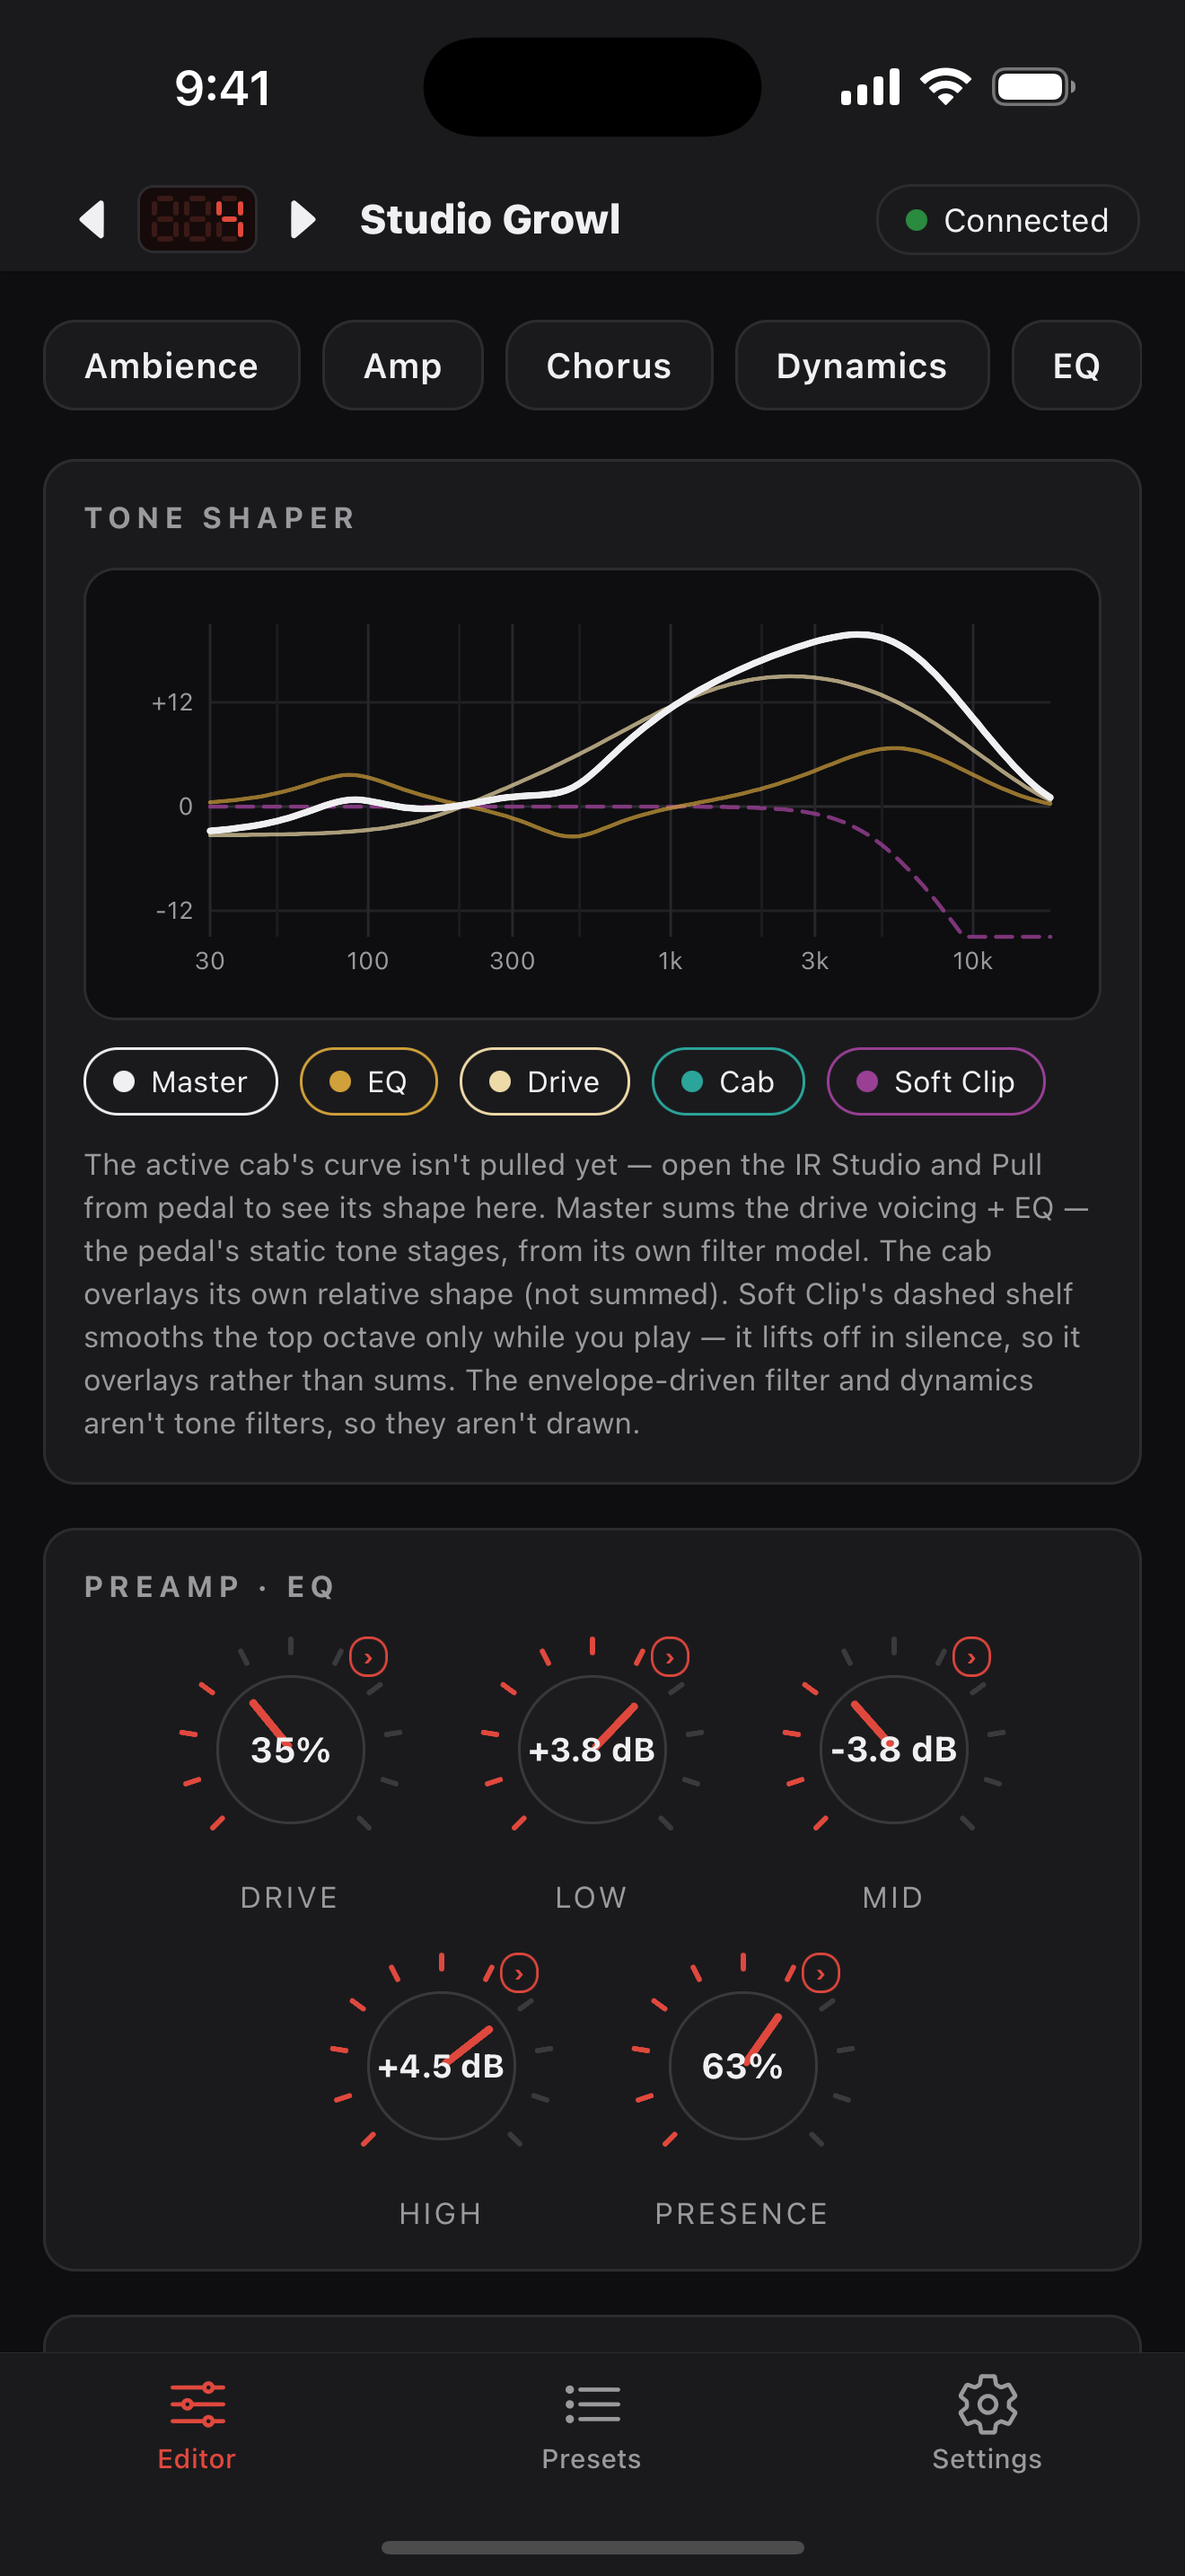
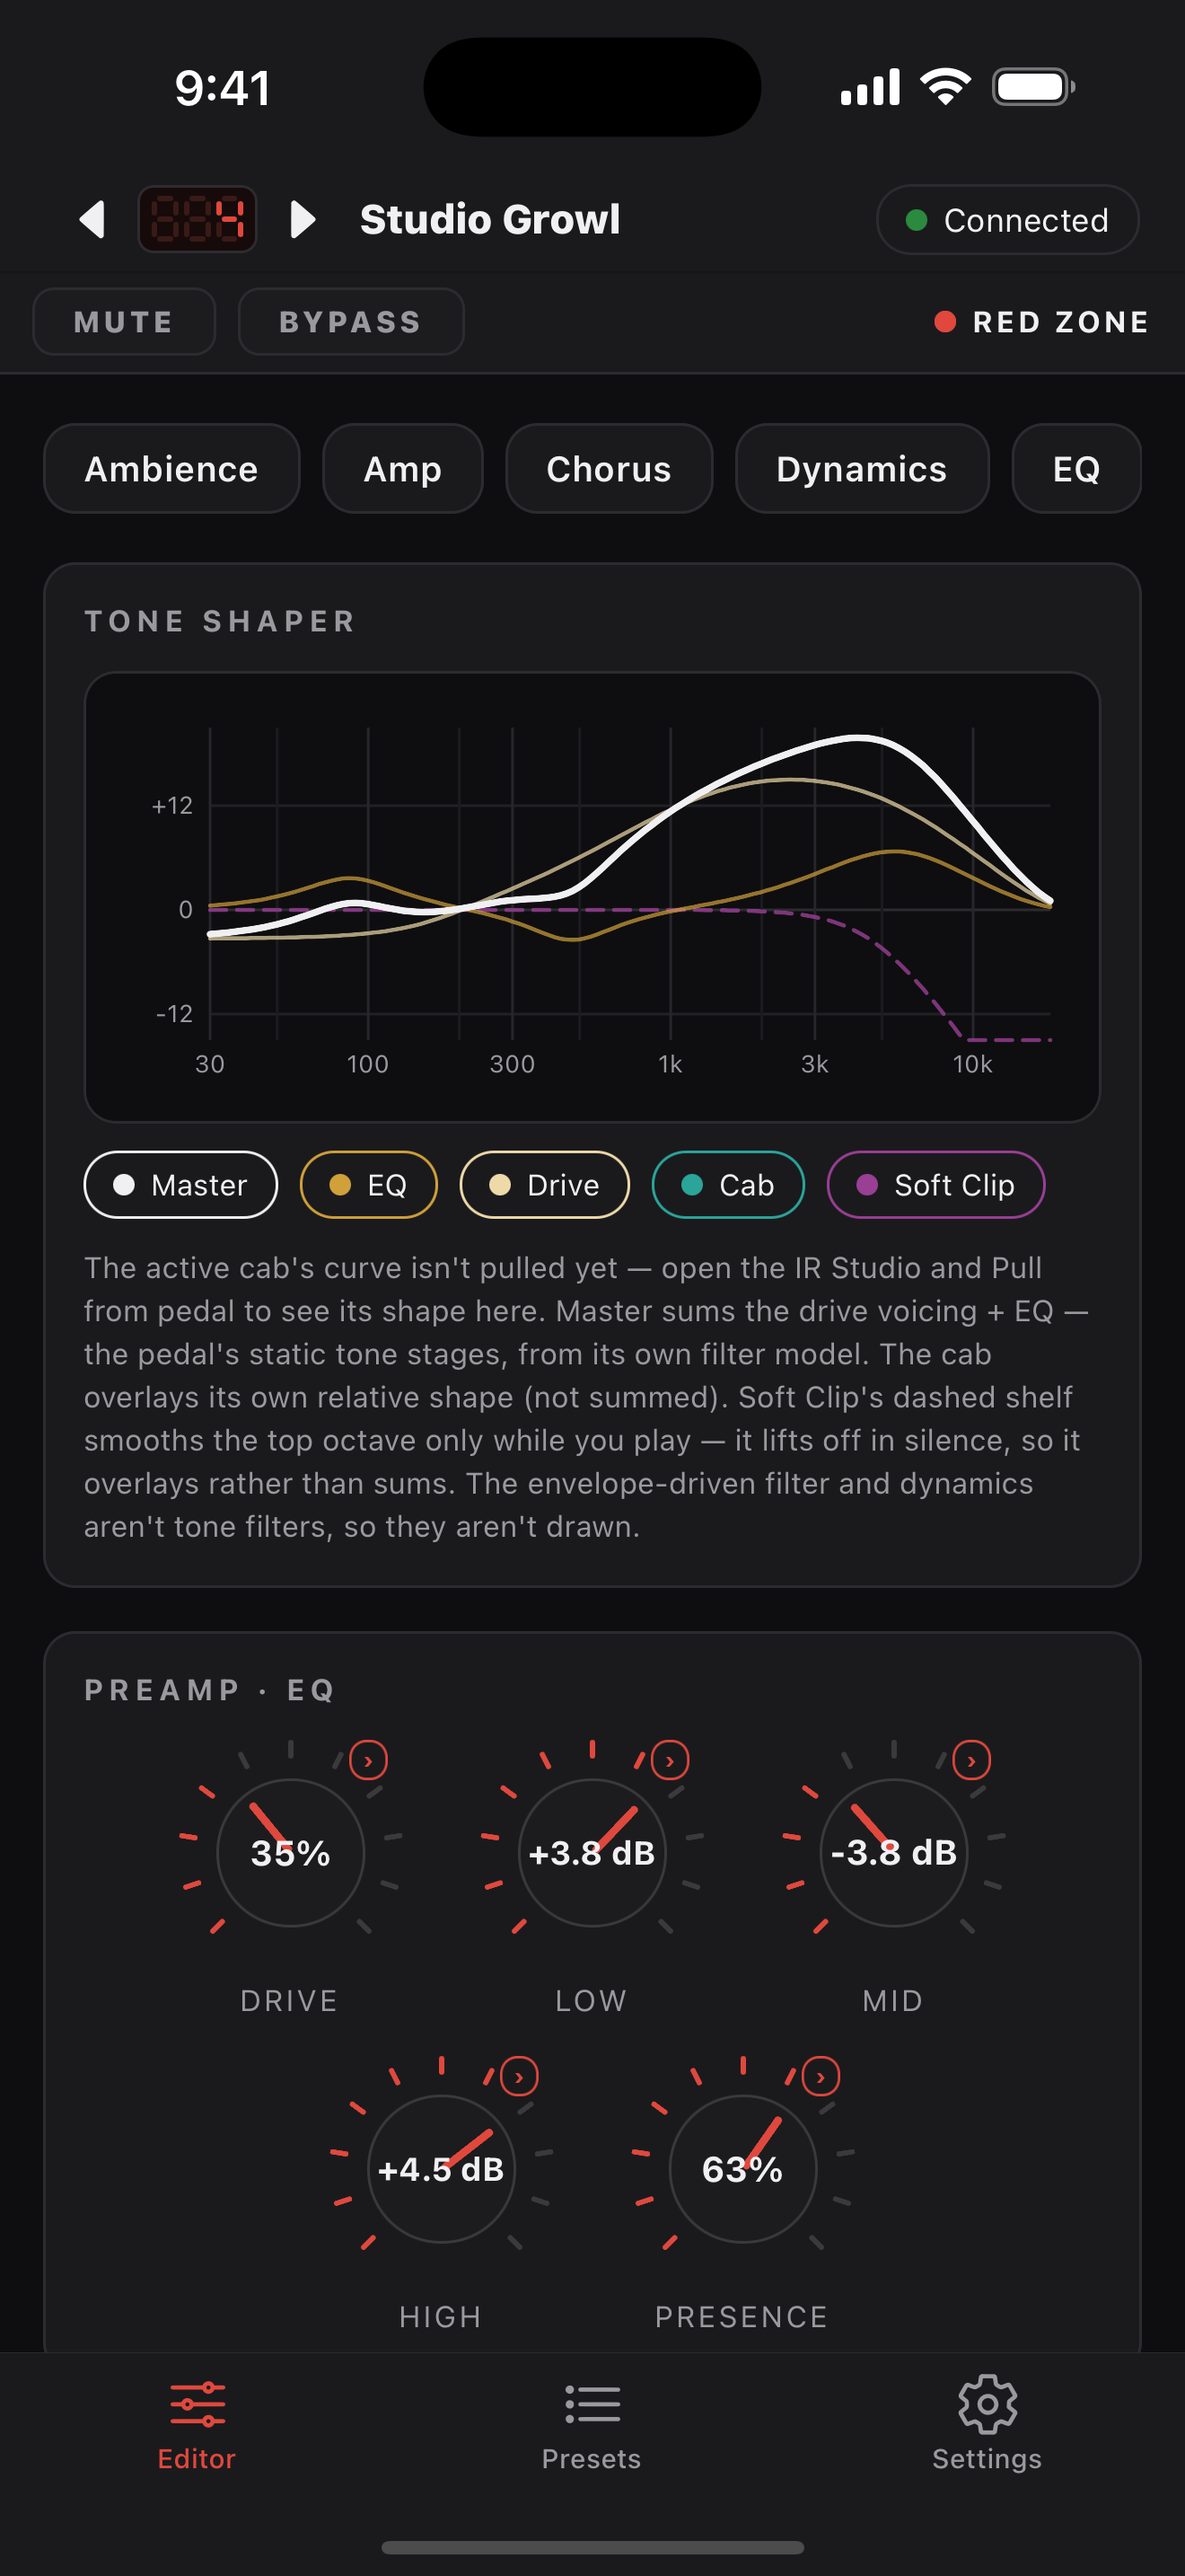
Fix the screenshot harness capturing the wrong screens, and refresh the set (#98)
The captured set was 6 days stale and missing two features the 1.2.0 release
notes advertise: the MUTE/BYPASS bar and the Red Zone badge, both of which are
global chrome that wraps every tab scene. I had checked which PAGES changed and
concluded the set was fine, which missed anything outside a page.

Two harness bugs found while regenerating:

1. SCREENS[0] is `route: ""`, which is not a navigation. Deep-linking the bare
   scheme leaves an already-running app exactly where it was, so the first
   capture takes whatever is on screen. Invisible on a clean run, silently wrong
   otherwise: an interrupted run left the app on the amp page, and it shipped as
   01_editor.png. Now terminates first so the run starts cold.

2. Terminating alone made it worse. Cold-starting via `openurl` has iOS launch
   the app to handle the URL, and the linked route arrives as a sheet over an
   empty root — every screenshot then carried a rounded card inset below the
   status bar, which reads as a rendering fault. Now launches normally first,
   then deep-links inside the running app.

Also corrects the Backup page copy, which the refreshed screenshot put on
display. It claimed IRs are "a shared library on the pedal, not part of a
preset" and that restore "replays any IR data the file contains". Both are wrong
as of the per-preset IR work: a .p3b holds presets only (34,176 B = 128 x 267,
zero IR chunks, verified against a real export), so a user reading that screen
[…]

diff --git a/tools/screenshots.ts b/tools/screenshots.ts
@@ -94,6 +94,28 @@ async function main() {
     ];
     simctl("status_bar", udid, "override", ...statusBar);
 
+    // Terminate before capturing so the run starts from a COLD launch on the editor tab.
+    //
+    // `SCREENS[0]` is `route: ""`, which is not a navigation — deep-linking the bare scheme leaves an
+    // already-running app exactly where it was. That is invisible on a clean run (a fresh launch lands
+    // on the editor anyway) and silently wrong on any run where the app was already open on another
+    // screen: every capture shifts and `01_editor.png` gets whatever was on screen. Reproduced
+    // 2026-08-17 after an interrupted run left the app on the amp page, which then shipped as the
+    // editor screenshot. Terminating makes the first capture deterministic instead of incidental.
+    try {
+      simctl("terminate", udid, BUNDLE_ID);
+    } catch {
+      /* not running — nothing to terminate, which is the state we want anyway */
+    }
+    await sleep(500);
+    // Then LAUNCH it normally before any deep link. Cold-starting via `openurl` instead makes iOS
+    // open the app to handle the URL, and the linked route comes up as a sheet over an empty root —
+    // every screenshot then carries a rounded card inset below the status bar, which reads as a
+    // rendering fault on the App Store listing. Launching first gives the normal full-screen root,
+    // and the deep links navigate inside it.
+    simctl("launch", udid, BUNDLE_ID);
+    await sleep(2000);
+
     console.log("Loading demo state…");
     simctl("openurl", udid, `${SCHEME}://connect?demo=1`);
     await sleep(DEMO_WAIT_MS);

diff --git a/app/backup.tsx b/app/backup.tsx
@@ -147,8 +147,9 @@ export default function Backup() {
 
       <Card title="Back up">
         <Text style={{ color: theme.textDim, fontSize: 12, lineHeight: 18 }}>
-          Reads all 128 presets and exports a `.p3b`. IRs are a shared library on the pedal, not
-          part of a preset — browse, design and upload them on the IR page.
+          Reads all 128 presets and exports a `.p3b`. This backs up presets only — your uploaded
+          custom IRs are stored separately on the pedal and are NOT included, so keep your own copy
+          of any cab you crafted (the IR page can export one as a `.wav`).
         </Text>
         <Button
           label="Export all presets (.p3b)"
@@ -160,8 +161,9 @@ export default function Backup() {
 
       <Card title="Restore">
         <Text style={{ color: theme.textDim, fontSize: 12, lineHeight: 18 }}>
-          Writes presets from a `.p3b` back to the pedal (and replays any IR data the file
-          contains). Overwrites current presets.
+          Writes presets from a `.p3b` back to the pedal, overwriting the current ones. A preset
+          that referenced a custom IR comes back pointing at it, but the cab itself is only there if
+          it is still on the pedal — restoring cannot recreate one.
         </Text>
         <Button
           label="Restore from .p3b…"
